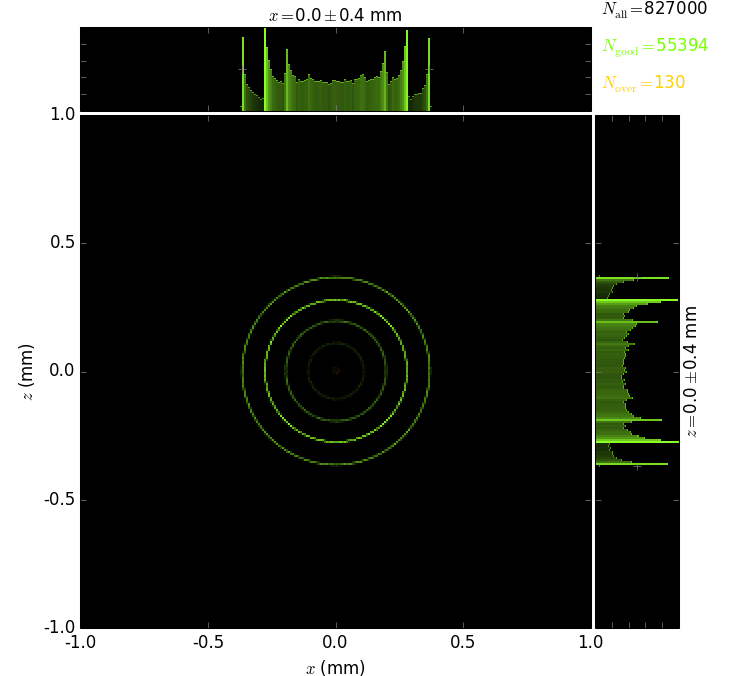
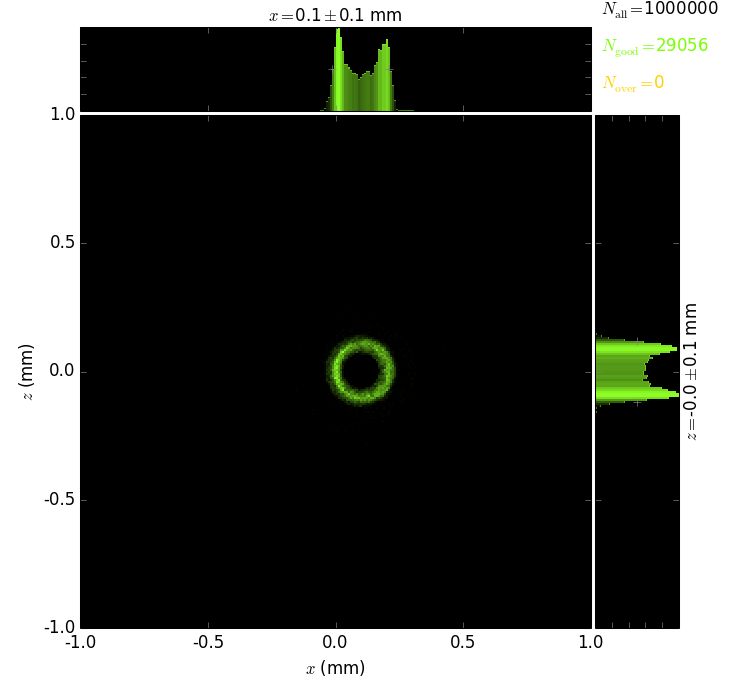
Straigh/sinusoidal funny shape
testing for capillary imperfections possibilities

diff --git a/StraightCapillary.py b/StraightCapillary.py
@@ -24,9 +24,10 @@ mGlass = rm.Material(('Si', 'O'), quantities=(1, 2), rho=2.2)
 E0 = 9000.
 rSample = 100. # starting position of the lens
 f = 330. # y length in mm from foucs to the end of the lens
-r0 = 0.07
-rOut = 0.012
+r0 = 0.021
+rOut = 0.022
 wall = 0.02
+plot2D_yLim = [0, 0.2]
 layers = 10 # number of hexagonal layers
 nRefl = 12
 nReflDisp = 12 # unused
@@ -44,14 +45,15 @@ class StraightCapillary(roe.OE):
         s0 = self.f - self.rSample * np.cos(self.entranceAlpha)
         self.a0 = -np.tan(self.entranceAlpha) / 2 / s0
         self.b0 = 0.5*self.rSample * np.sin(self.entranceAlpha) - self.a0 * s0**2
-        self.b0 = 0.
+        self.b0 = 0.1
         self.s0 = s0
         self.ar = (self.r0out-self.r0in) / s0**2
         self.br = self.r0in
         self.isParametric = True
 
     def local_x0(self, s):  # axis of capillary, x(s)
-        return 0*self.a0 * (s-0)**2 + self.b0
+#        return 0*self.a0 * (s-0)**2 + self.b0
+        return 0.0005*np.sin(s*2*np.pi) + self.b0
 
     def local_x0Prime(self, s):
         return 2 * self.a0 * s * 0
@@ -140,7 +142,7 @@ def plot2D():
     ax1.plot(f-s, x+r, 'r-', lw=2)
     
     ax1.set_xlim(0,f)
-    ax1.set_ylim(-0.4,0.4)
+    ax1.set_ylim(plot2D_yLim)
     # always save
     fig1.savefig('MonoCapillaryZ0crosssection.png')
     
